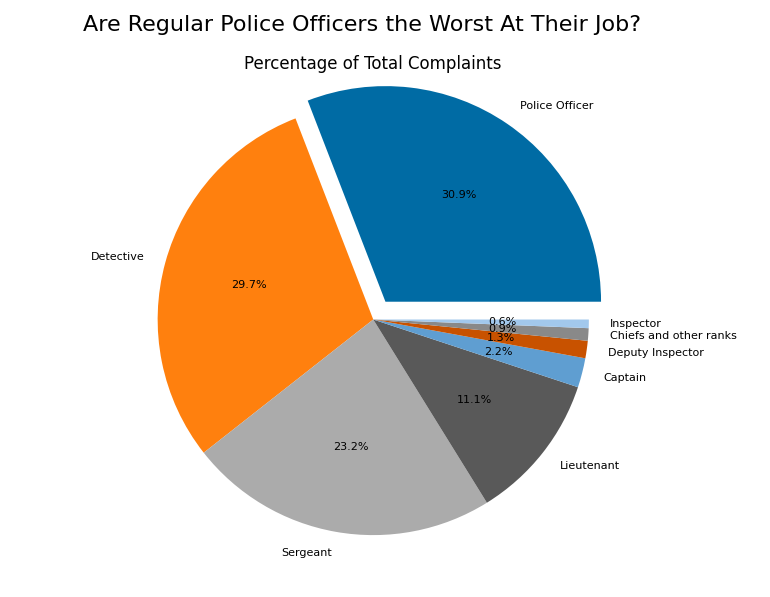
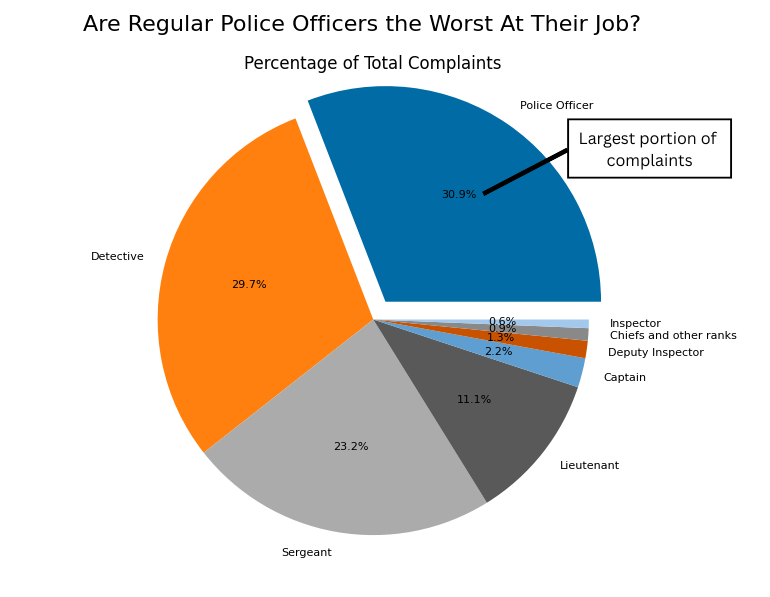
polished writeup
+ updated images
+ fixed grammar
+ added annotations

Changed region(s): [[0.6545, 0.1809, 0.9662, 0.3015], [0.6234, 0.3015, 0.6545, 0.3317]]

diff --git a/index.html b/index.html
@@ -177,10 +177,11 @@
         <p>Design Decisions and Rationale:</p>
 
         <ul>
-          <li>Displayed informaiton in a pie chart (1)<br>A pie chart clearly demonstrated differences between groups, especially larger ones. I considered a bar graph, but a pie chart allowed for better perception.</li>
+          <li>Displayed information in a pie chart (1)<br>A pie chart clearly demonstrated differences between groups, especially larger ones. I considered a bar graph, but a pie chart allowed for better perception.</li>
           <li>Exploded the largest portion of the pie chart (1)<br>Having a slice pop out provides further emphasis on the highest percentage of regular police officers. Bolding the percentage number could've worked as well, but exploding the chart makes it stand out more.</li>
-          <li>Grouped by general ranks (-1)<br>Many ranks of same superiority combined allowed for regular police officers to have highest % of complaints since they have the most officers. Having less slices resulted in better visibility and less distractions than more slices.</li>
-          <li>Used colorblind-friendly color scheme (2)<br>Tableau colorblind theme worked well to distinguish between each section as well acknowledge the colorblind.</li>
+          <li>Grouped by general ranks (-1)<br>Many ranks of the same superiority combined allowed for regular police officers to have the highest % of complaints since they have the most officers. Having fewer slices resulted in better visibility and fewer distractions than more slices.</li>
+          <li>Annotated the largest slice (2)<br>Bringing even more attention to the largest slice lets the reader understand its importance. All the markings work together highlight the largest complaint percentage better than they do individually.</li>
+          <li>Used colorblind-friendly color scheme (2)<br>Tableau colorblind theme worked well to distinguish between each section as well as acknowledge the colorblind.</li>
         </ul>
       </section>
 
@@ -189,16 +190,17 @@
 
         <figure>
           <img src="prop_opp.png" alt="" />
-          <figcaption>On the other hand, they have the lowest complaints per officer out of all ranks.</figcaption>
+          <figcaption>On the other hand, regular police officers have the lowest complaints per officer out of all ranks.</figcaption>
         </figure>
 
         <p>Design Decisions and Rationale:</p>
 
         <ul>
-          <li>Displayed information in a bar graph (1)<br>The graph easily shows the large difference in bar lengths better than other plot types. Same scale length uses perceptual work rather than cognitive work for the reader, making it easier to understand.</li>
-          <li>Used complaints per officer (-2)<br>Using per officer rates along with general groups created disparity with the large group of normal police officers. Different groupings did not show the same effect as complaint per officer.</li>
-          <li>Grouped by general ranks (-1)<br>Bigger groups resulted in less complaints per officer for the regular officer. Using less bars reduces congestion and simplifies the graph while enhancing the differences. Grouping by more specific ranks create more noise and does not show that normal police officers have the lowest complaint rate.</li>
-          <li>Coloring the regular police officer rank differently (1)<br>This provides emphasis and brings attention to the smallest bar for easier comparison. An annotation would crowd the visualization, so a contrasting color would be simpler and more effective. The orange color also comes from the Tableau colorblind theme to acknowledge the colorblind.</li>
+          <li>Displayed information in a bar graph (1)<br>The graph easily shows the large difference in bar lengths better than other plot types. The same scale length uses perceptual work rather than cognitive work for the reader, making it easier to understand.</li>
+          <li>Used complaints per officer (-2)<br>Using per officer rates along with general groups created disparity with the large group of normal police officers. Different groupings did not show the same effect as complaints per officer.</li>
+          <li>Grouped by general ranks (-1)<br>Bigger groups resulted in fewer complaints per officer for the regular officer. Using fewer bars reduces congestion and simplifies the graph while enhancing the differences. Grouping by more specific ranks creates more noise and does not show that normal police officers have the lowest complaint rate.</li>
+          <li>Annotated difference between the smallest bars (2)<br>The large difference makes the small bar stand out even more against the others. It provides an easier way to compare than having to closely look at the y-axis.</li>
+          <li>Coloring the regular police officer rank differently (1)<br>This provides emphasis and brings attention to the smallest bar for easier comparison. A contrasting color is simple and effective at grabbing attention. The orange color also comes from the Tableau colorblind theme to acknowledge the colorblind.</li>
         </ul>
       </section>
 
@@ -207,20 +209,25 @@
 
         <p>
           Making both visualizations required using several methods, both earnest and deceptive, to support or oppose the proposition.
-          Using different plot types allowed for more versatility to emphasis different portions of each plot, allowing the graph to showcase exactly what I wanted.
+          Using different plot types allowed for more versatility to emphasize different portions of each plot, allowing the graph to showcase exactly what I wanted.
           Finding ways to group the plots was challenging as I needed specific groupings to have opposing ideas clash against each other.
-          At first I used specific abbreviated officer ranks to group, but there were too many groups.
+          At first, I used specific abbreviated officer ranks to group, but there were too many groups.
           However, I noticed the non-abbreviated rank columns had general groupings, so those were better to use since there was no need to explain each abbreviation.
-          <br>
+          Afer the grouping problem was solved, I still needed ways to show the differences between the two ideas.
+          <br><br>
           Using the total number of complaints and calculating percentages was a simplistic way to create deceptiveness because most police officers are of the lowest rank.
-          Even if they had lower complaint rate as shown in the visualization against the proposition, the raw numbers would still show more total complaints.
+          Even if they had a lower complaint rate as shown in the visualization against the proposition, the raw numbers would still show more total complaints.
           After I noticed this, I decided to plot the complaint per officer to show a large deviation from the other groups.
-          This made the smaller groups have higher per officer ratings while the lowest ranking officers had a large enough group to lower the rate.
-          It worked surprisingly well as normal officers had a much lower complaint rate compared to the rest, making it easy to show differences.
-          A bar graph was more effective to show the smallest group while a pie chart was more effective to show the largest group.
-          <br>
-          These techinques created polarizing views, yet still have an ethical aspect to both visualizations.
-          I believe this analysis is still ethical as no data was purposefully omitted, but rather specific groupings were made to show different ideas.
+          This made the smaller groups have higher per-officer ratings while the lowest-ranking officers had a large enough group to lower the rate.
+          It worked surprisingly well, as normal officers had a much lower complaint rate than the rest, making it easy to show differences.
+          A bar graph was more effective in showing the smallest group while a pie chart was more effective in showing the largest group.
+          Both visualizations used the Tableau colorblind theme to make sure colorblind people could properly view the plots.
+          Contrasting colors and emphasizing the large pie slice effectively showed the differences and brought attention to those areas.
+          The annotation in the supporting visualization focuses on how the slice is the largest, ignoring the other smaller slices.
+          Furthermore, the annotation in the opposing visualization also draws attention to the small bar, showcasing the difference even more.
+          <br><br>
+          These techniques created polarizing views, yet still have an ethical aspect to both visualizations.
+          I believe this analysis is still ethical as no data was purposefully omitted, but specific groupings were made to show different ideas.
           Some may say these groupings are considered misleading because of the way the data was grouped, but all data is still present, and there were no violations of normal conventions.
           As long as there was no deliberate filtering of important data, these choices are considered persuasive.
         </p>
